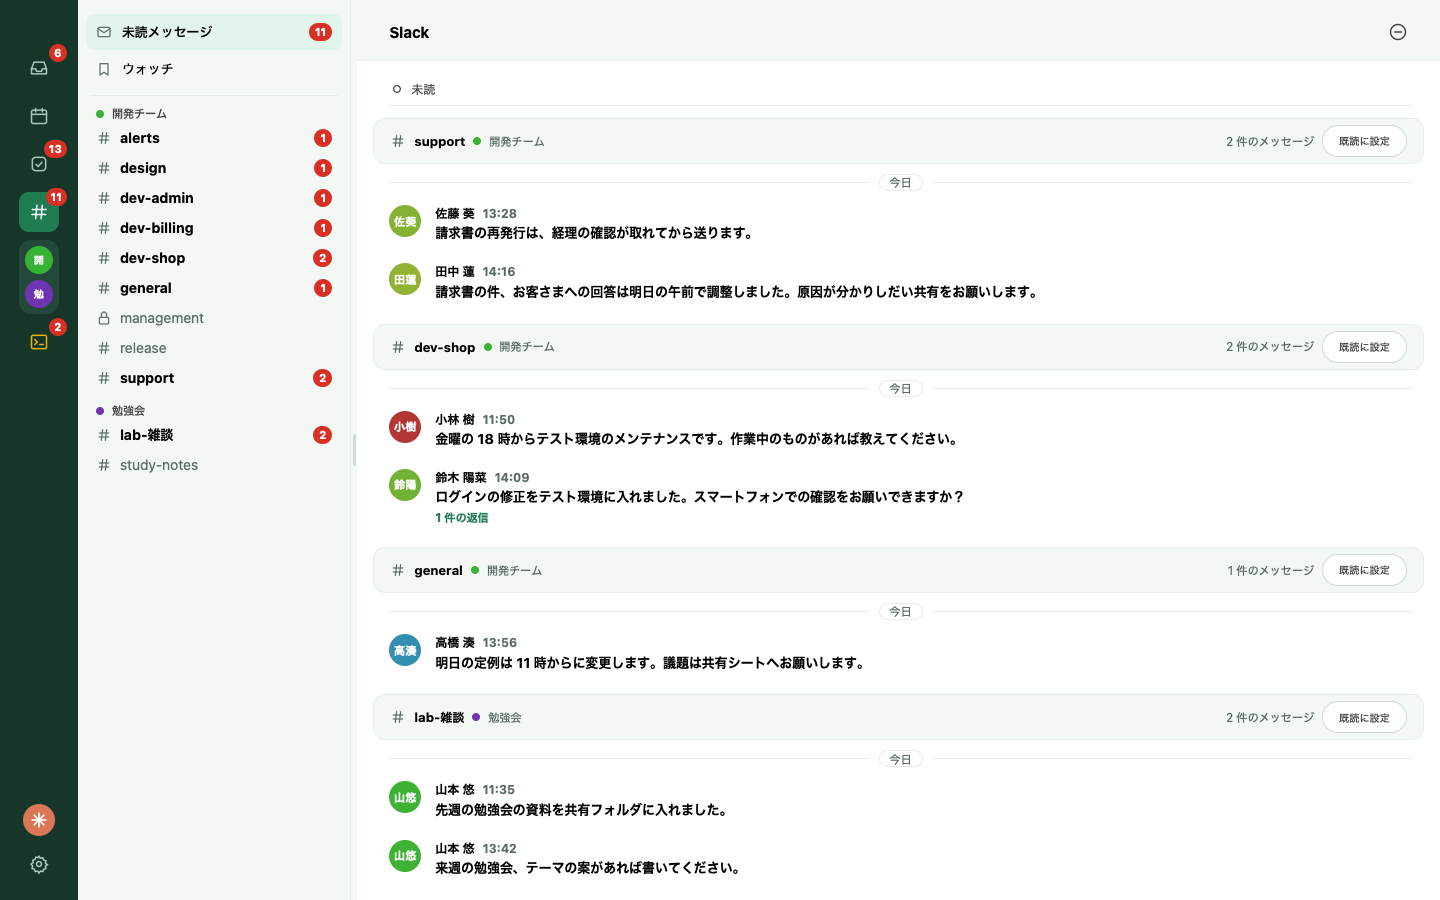
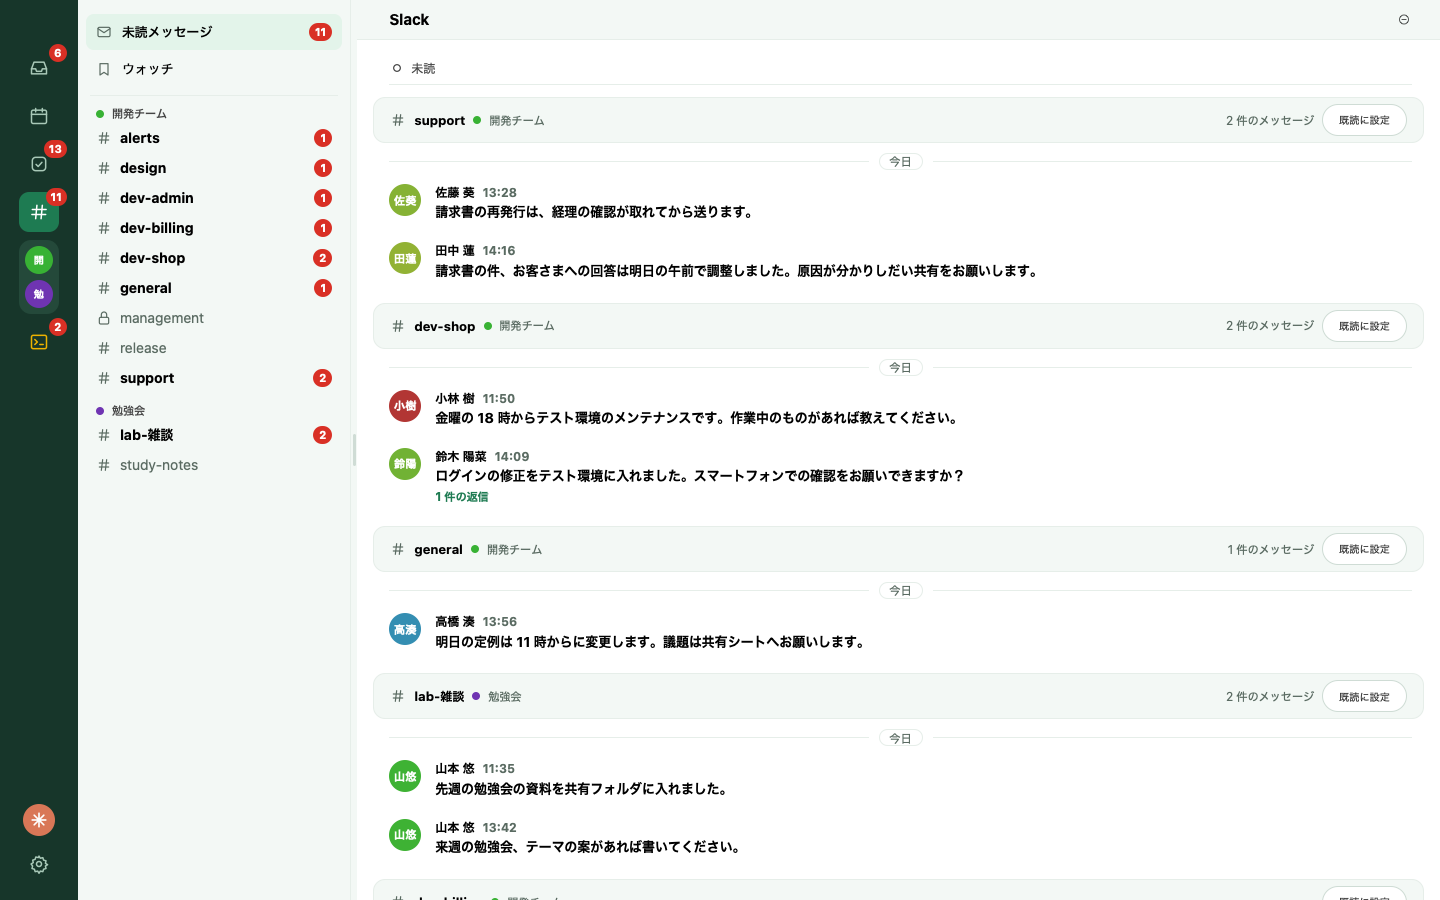
docs: v0.63.2 の変更を CHANGELOG と機能の説明に書き、README の写真を撮り直す
This commit is v0.63.2.

diff --git a/docs/features.md b/docs/features.md
@@ -55,6 +55,6 @@ title: 機能
 - Orca 画面のファイル欄でファイルを右クリックし、「差分を表示」を選ぶと、HEAD のファイルとディスクのファイル（コミットしていない変更を含む）の差分を作業ペインのタブで出す。左に HEAD、右にディスクのファイルを並べ、行番号を間に出す。ボタンで、消えた行と増えた行を 1 列に重ねる表示に切り替えられる。文字はエディタと同じく言語に合わせて色をつけ、前と次の変更へ移るボタン、変更の数、読み直すボタンがある
 - Orca 画面のファイル欄の見出しのブランチ名を押すと、真下にブランチの一覧が開き、選んだブランチに worktree を切り替える。一覧は「ローカル」と「リモート」に分かれ、今のブランチに印が付く。別の worktree で使っているブランチは薄く出て選べない。上の欄に打つと絞り込み、リモートはその文字で探す。リモートのブランチを選ぶと、それを追うローカルのブランチを作って切り替える。切り替えるとファイル一覧と見出しを読み直し、開いているタブはそのまま残る。コミットしていない変更があるときなど、Orca が断ったときはその文言を出す。SSH ホストの worktree では押せない
 - 設定の「フォント」タブで、画面ごとに書体と大きさを選ぶ。メール、カレンダー、Slack は画面ごとに、Todo は左のプロジェクト一覧と右の作業スペースを別々に、Orca はプロジェクト一覧、作業スペース（チャットとファイル）、作業スペース（ターミナル）、エディタを別々に選べる。「アプリ全体」では、設定画面、サイドメニュー、ポップアップなど、画面ごとの場所に入らない部分の書体と大きさを選び、「等幅の文字」では、コード、テキスト形式のメールの本文、プロンプト、差分の書体を選ぶ。選んだ書体はすぐに画面に出る。初めはどの画面も今までと同じで、Orca の作業スペースだけは Ghostty の設定に従うこともできる
-- ウィンドウにタイトルバーは無く、どの画面もウィンドウの上端まで広がる。macOS の閉じる・しまう・拡大のボタンは左のアイコン列の上に乗る。各画面の上端の帯の空いた所をドラッグするとウィンドウが動き、ダブルクリックで拡大する
+- ウィンドウにタイトルバーは無く、どの画面もウィンドウの上端まで広がる。macOS の閉じる・しまう・拡大のボタンは左のアイコン列の上に乗る。各画面の上端の帯は、どの画面も同じ高さ（40px）で、中のボタンも同じ大きさにそろえてある。画面のフォントを大きくすると、帯は文字に合わせて伸びる。帯の空いた所をドラッグするとウィンドウが動き、ダブルクリックで拡大する
 - Orca 画面と Todo 画面の左のプロジェクト一覧は、一覧の上端の左のボタンで閉じられる（閉じている間は、右の作業ペインかタスクの一覧がその幅まで広がり、ボタンはタブ列か見出しの左に移る。もう一度押すと開く。状態は保存せず、起動すると開いている）
 - Claude Code から、受信トレイの一覧・閲覧・アーカイブ・既読化・ゴミ箱への移動と、予定の一覧を扱う（ローカルの MCP サーバー `cookapps-mcp`。設定は [Claude との連携（MCP）](mcp.md)）

diff --git a/CHANGELOG.md b/CHANGELOG.md
@@ -3,6 +3,10 @@
 The newest version comes first.
 The project was named cookup until v0.14.6.
 
+## v0.63.2
+
+A-23, T-7: the band at the top of every screen is one height, 40px (#482). It was 32px on the Orca screen, 70px on the Todo screen and set by its own padding on the other screens, so the lines under the bands did not meet where two screens or two panes sit side by side. The icon buttons in the bands are one size too (24px, with a 15px icon). With a larger font (A-20) a band grows to fit its text instead of cutting it.
+
 ## v0.63.1
 
 A-9: the pane that hands a mail, a Slack thread or a Todo to Orca is a form from the top down, and what the user writes is handed over as it was written (#475, #476). Claude no longer summarises the instruction, and the buttons "要約する" and "直す", the conversation about the summary, the model and effort selects and the proposed worktree name are gone. The card is summarised by Claude when the user presses the arrow icon "Orca に渡す" at the bottom right of the instruction field (or Cmd+Enter): the summary goes into the quoted content, above its text, after the instruction and the paths of the files. The pane starts at 40% of the screen.
